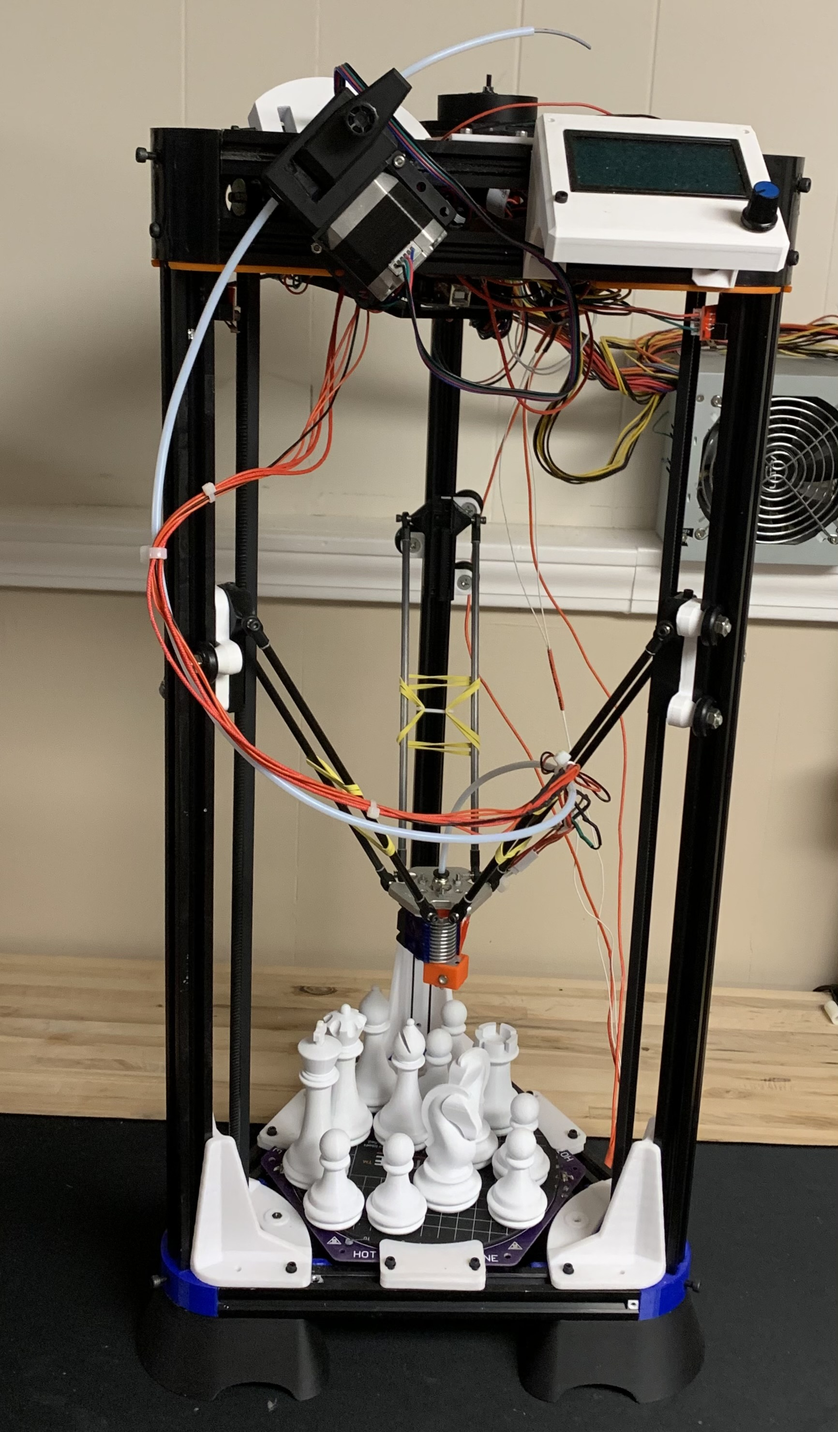
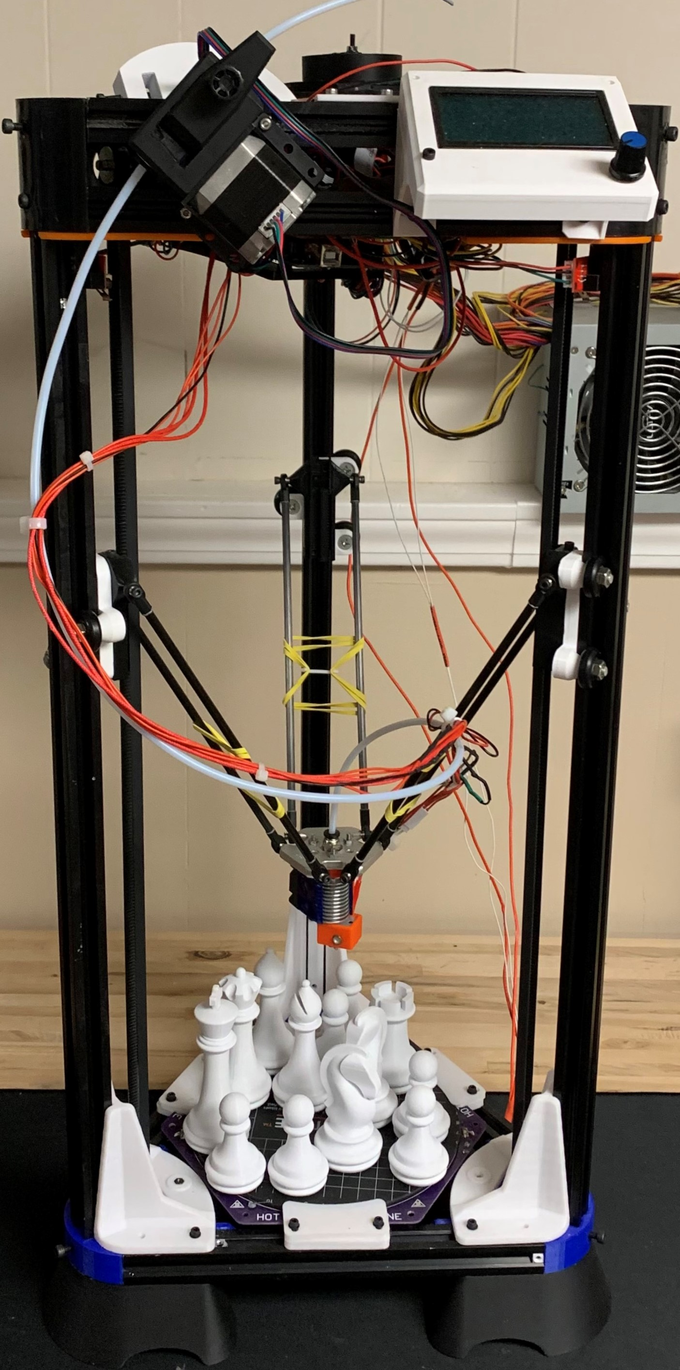
2

diff --git a/index.html b/index.html
@@ -353,7 +353,7 @@
 
         <div class="section-title">
           <h2>Projects</h2>
-          <p>Magnam dolores commodi suscipit. Necessitatibus eius consequatur ex aliquid fuga eum quidem. Sit sint consectetur velit. Quisquam quos quisquam cupiditate. Et nemo qui impedit suscipit alias ea. Quia fugiat sit in iste officiis commodi quidem hic quas.</p>
+          <p>Take a look at some of my projects</p>
         </div>
 
         <div class="row">
@@ -425,15 +425,15 @@
             </div>
           </div>
 
-          <div class="col-lg-4 col-md-6 portfolio-item filter-web">
+          <div class="col-lg-4 col-md-6 portfolio-item filter-3DPrinting">
             <div class="portfolio-wrap">
-              <img src="assets/img/portfolio/portfolio-5.jpg" class="img-fluid" alt="">
+              <img src="assets/img/portfolio/delta3dprinter.jpg" class="img-fluid" alt="">
               <div class="portfolio-info">
-                <h4>Web 2</h4>
-                <p>Web</p>
+                <h4>Delta 3D Printer</h4>
+                <p>3D Printing</p>
                 <div class="portfolio-links">
                   
-                  <a href="portfolio-details.html" class="portfolio-details-lightbox" data-glightbox="type: external" title="Portfolio Details"><i class="bx bx-link"></i></a>
+                  <a href="portfolio-details - 4.html" class="portfolio-details-lightbox" data-glightbox="type: external" title="Portfolio Details"><i class="bx bx-link"></i></a>
                 </div>
               </div>
             </div>

diff --git a/forms/contact.php b/forms/contact.php
@@ -7,7 +7,7 @@
   */
 
   // Replace contact@example.com with your real receiving email address
-  $receiving_email_address = 'contact@example.com';
+  $receiving_email_address = 'samblaha66@gmail.com';
 
   if( file_exists($php_email_form = '../assets/vendor/php-email-form/php-email-form.php' )) {
     include( $php_email_form );
